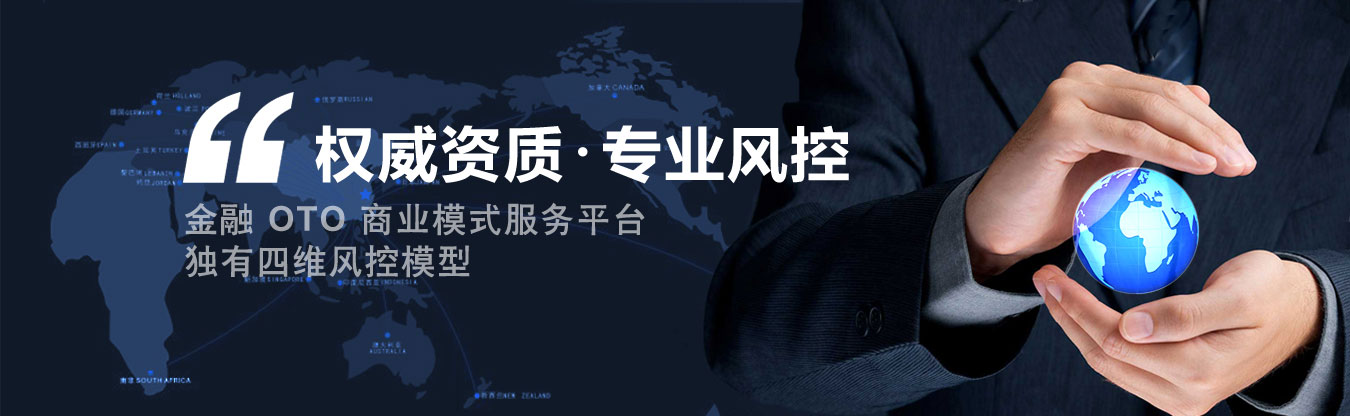
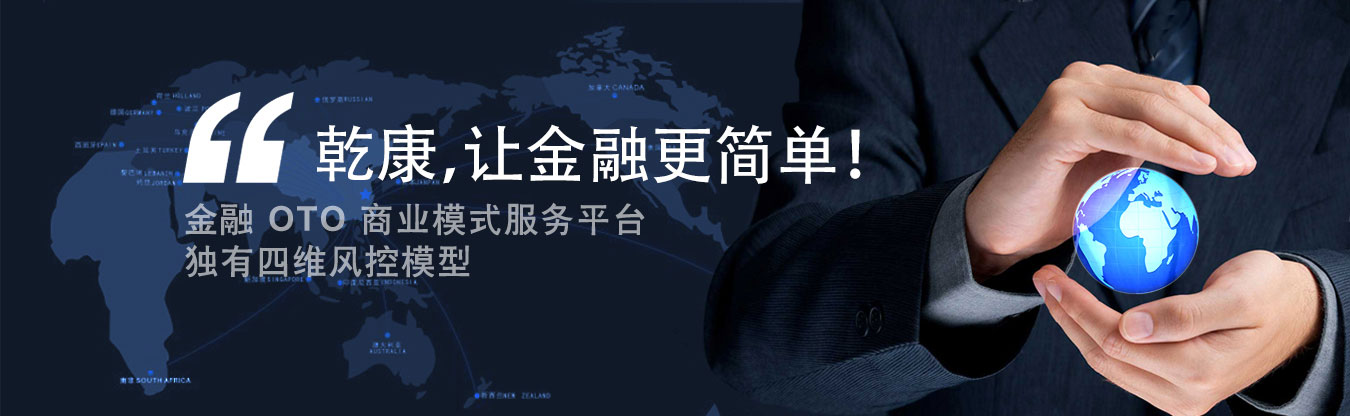
[mod]更新banner和公司简介

Changed region(s): [[0.2178, 0.2812, 0.6533, 0.4375]]

diff --git a/scapp/templates/gyqk/gyqk.html b/scapp/templates/gyqk/gyqk.html
@@ -65,8 +65,8 @@
 		<h2>乾康金融集团</h2>
 		<span></span>
 		<font>
-			乾康金融集团是一家专注于信贷领域专业管理咨询以及运营实施的服务机构。 集团主营业务是为银行等金融机构提供个人信贷业务咨询及运营，<!-- 助力实现银行互联网银行平台建设， -->打造 OTO 商业模式服务平台。<br/>
-			乾康公司高层智囊云集，创始人及决策层领导集多年信贷管理咨询经验、前瞻性的理念、大数据云计算的技术于一体，披荆斩棘的为行业开拓领航，打造了一支国际化和本土化相结合的咨询团队。
+			乾康金融成立于2013年，是一家专注于信贷领域专业管理咨询以及运营实施的服务机构。公司主营业务是为区域性商业银行等金融机构提供信贷风控咨询运营，打造 OTO 商业模式服务平台。<br/>
+			乾康公司高层智囊云集，现有公司员工145人，其中受高等教育人员占98%以上，博士6人。公司成立3年间已获得17个软件著作权，为近50家银行客户提供过小微贷，信用卡咨询及风控体系建设服务。累计通过风控评估授信100个亿，培养出90余人的线下风控专家团队。
 		</font>
 	</div>
 	<div class="AboutUs qywh dh" id="dh2" style="position:relative;right:-100%;">

diff --git a/scapp/static/css/main.css b/scapp/static/css/main.css
@@ -211,7 +211,7 @@ p{color:#666666;font-size:1em;}
 .title h3{display:inline-block;font-size:16px;font-weight:normal;margin-left:-20px;color:#000;position:relative;z-index:2}
 /*关于乾康*/
 .AboutUs{float:left;width:80%;margin-left:10%;background:url(../img/gyqk.jpg) no-repeat right top;height:350px;margin-bottom:40px;padding-bottom:40px;border-bottom:1px dashed #d9d9d9;}
-.AboutUs h1{color:#000;font-size:20px;font-weight:normal;margin-top:50px;line-height:30px;}
+.AboutUs h1{color:#000;font-size:20px;font-weight:normal;margin-top:30px;line-height:30px;}
 .AboutUs h2{font-size:35px;color:#000;line-height:70px;}
 .AboutUs span{display:inline-block;width:13%;border-top:2px solid #000;margin-right:1%;vertical-align:top;margin-top:1em;}
 .AboutUs font{display:inline-block;width:46%;color:#000;line-height:30px;}
